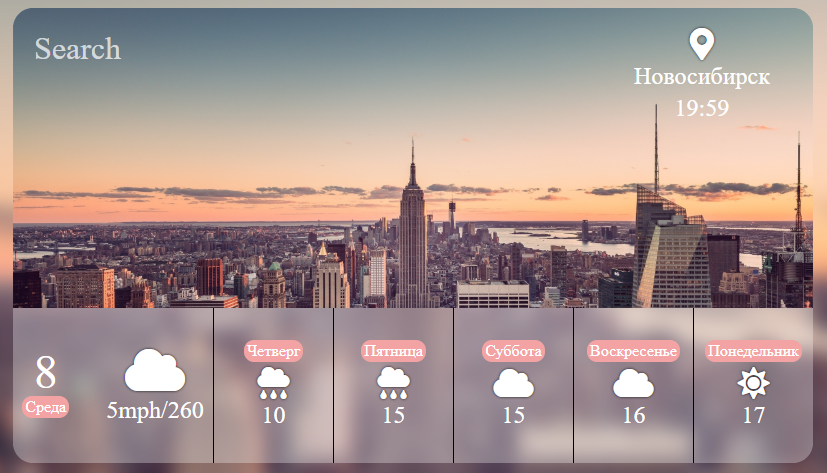
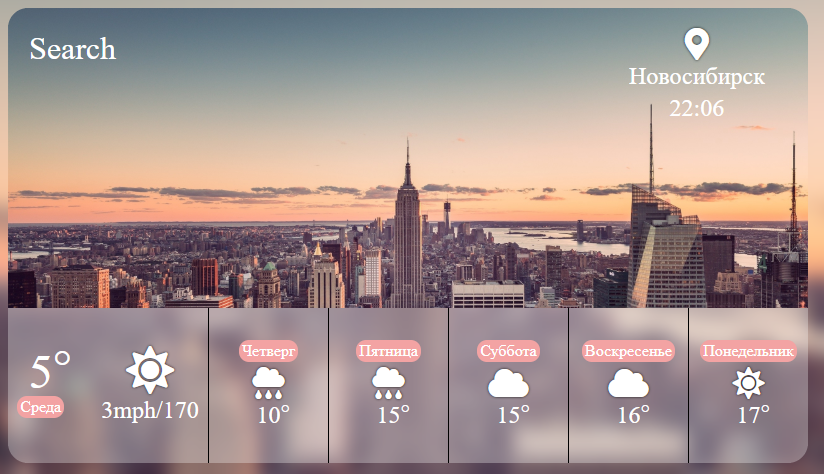
fix

diff --git a/js/Render.js b/js/Render.js
@@ -56,7 +56,7 @@ class Render {
     }
     templateCurrent(data) {
         return `
-        <div class="app__text  app__text_big">${Math.round(data.main.temp)}</div>
+        <div class="app__text  app__text_big app__temp">${Math.round(data.main.temp)}</div>
         <div class="badge">${this.weekDays(data.data)}</div>
         <div class="break-column"></div>
         <div class="icon icon_big ${this.getIcon(data.weather.icon)}"></div>
@@ -78,7 +78,7 @@ class Render {
         return `<div class="app__day">
         <span class="badge">${this.weekDays(data.data)}</span>
         <div class="icon icon_medium ${this.getIcon(data.weather.icon)}"></div>
-        <p class="app__text">${Math.round(data.main.temp)}</p>
+        <p class="app__text app__temp">${Math.round(data.main.temp)}</p>
     </div>`
     }
     error(type) {

diff --git a/blocks/app.css b/blocks/app.css
@@ -111,6 +111,16 @@
     font-size: 3rem;
     line-height: 3rem;
 }
+.app__temp {
+    position: relative;
+}
+.app__temp::after {
+    content: '\00B0';
+    position: absolute;
+    right: -0.4em;
+    top: -0.1em;
+    font-size: 1em;
+}
 @media (max-width: 760px) {
     .app__main {
         flex-direction: column;
